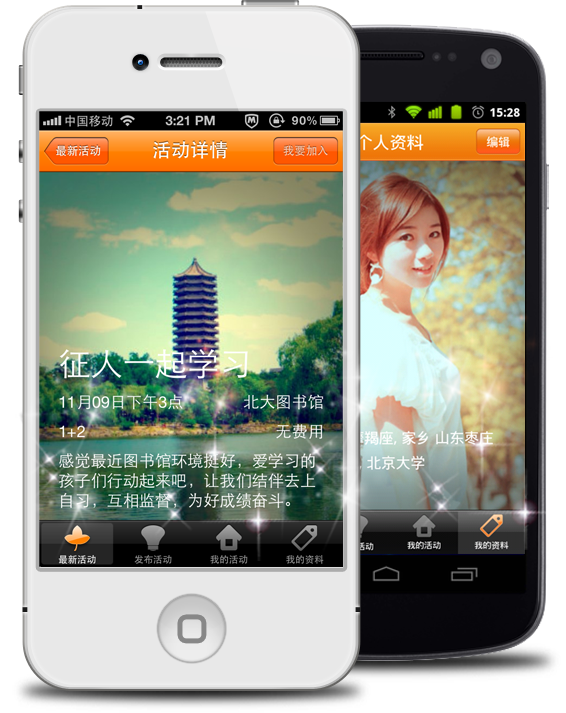
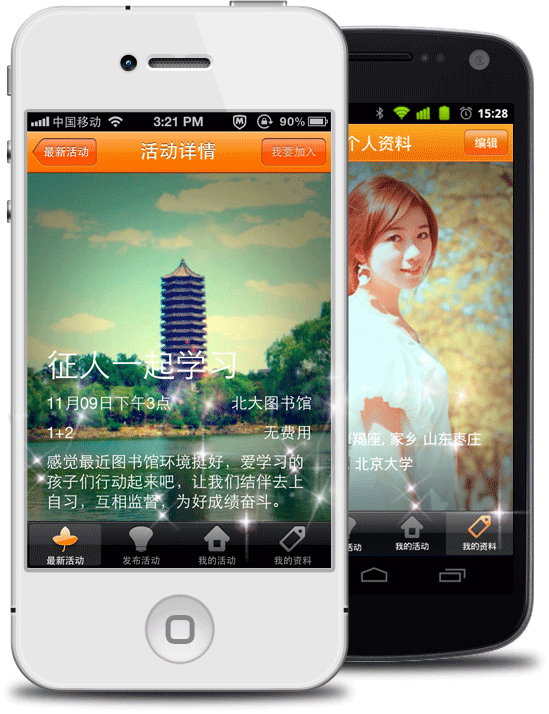
modified about webPortal home page

diff --git a/server/webPortal/index.html b/server/webPortal/index.html
@@ -51,12 +51,12 @@
       .titleTxtAsImg{
         display:block;
         height:200px;
-        width:190px;
+        width:340px;
         position:absolute;
         left:195px;
         top:0px;
 
-        background-image:url("tongqu.png");
+        background-image:url("title.png");
         background-repeat:no-repeat;
         background-position: center;
 
@@ -243,13 +243,13 @@
         <span class="titleTxtAsImg"></span>
       </div>
       <div class="bodyPart">
-        <img class="mainImg" src="mobile99.png"/>
+        <img class="mainImg" src="mobile1.png"/>
         <span class="content">
           <span class="asdiv">上自习，选修课，跑步，打羽毛球，购物...
             <br/>你依旧还是孤单一个人，找不到同去的人么？
             <br/> 想多交些一起的朋友么？
             <br/>
-            <br/>加入<span class="txtTitleL2">同去</span>吧，中国第一个为大学生组织个性化
+            <br/>加入<span class="txtTitleL2">活动号外</span>吧，中国第一个为大学生组织个性化
             <br/>活动的手机平台。</span>
         </span>
         <a class="btnDown btnAndroid" href="tongqu.apk">
